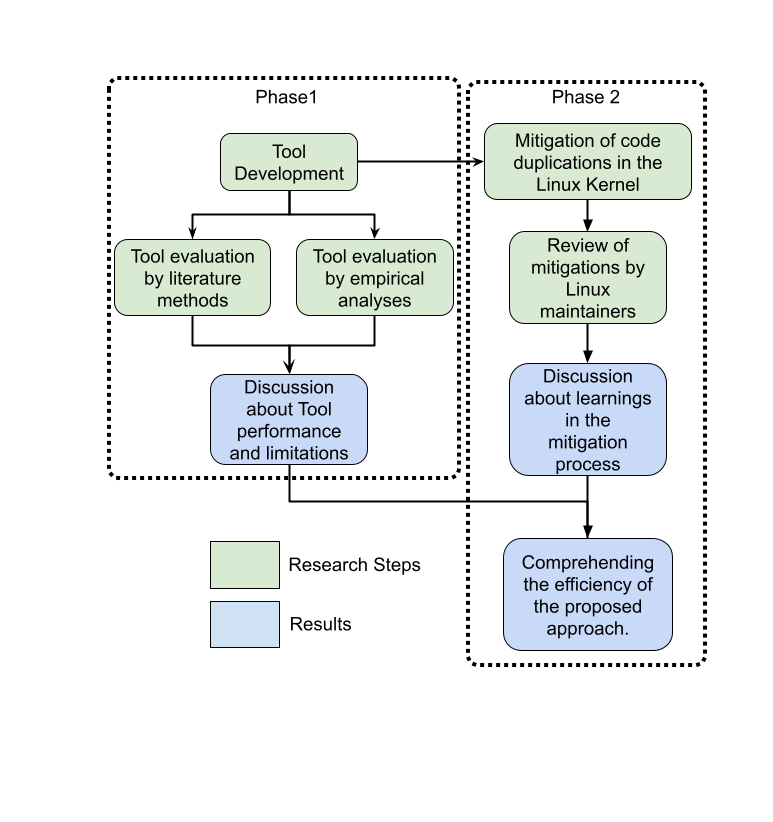
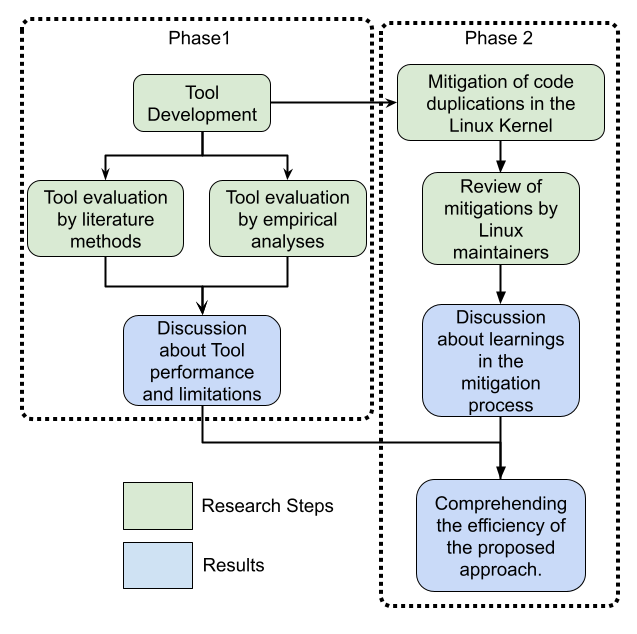
adjust research figure and intro tex

diff --git a/conteudo/introduction/intro.tex b/conteudo/introduction/intro.tex
@@ -83,7 +83,7 @@ in a set of randomly selected codes of the AMD Display driver which our proposed
 A detailed explication of how we will validate our tool is demonstrated in Chapter \ref{cha:method}.
 
 \begin{figure}
-\includegraphics[scale=0.8]{research_design}
+\includegraphics[scale=0.7]{research_design}
 \caption{Diagram of the research design.}
 \label{fig:reDesign}
 \end{figure}
@@ -93,13 +93,6 @@ context and, we can move on to how to mitigate these duplications, which compreh
 In \textbf{Phase 2}, we intend to discover ways to mitigate the code duplication detected in the Linux kernel. 
 To achieve our objective, we designed an ethnographic approach, which enables us to interact with the Linux community 
 to collect artifacts validating or refuting our mitigation.
-
-(POINTS TO CONSIDER: I do not like much this introduction, but is the best I could do)
-(I DO NOT HAVE MORE A PLACE TO FIT THIS PARAGRAPH) An additional usefulness of our proposed approach, which we do not verify
-in our research, is to give a new method to people become 
-contributors to the Linux kernel. The process of starting to contribute to the Linux kernel can be unintuitive, which can cause 
-people to distance themselves. Our approach provides to the community a new form of newcomers to start contributing by removing 
-simple code duplications, while they learn the whole process of being a Linux contributor.
 
 Figure \ref{fig:reDesign} sumamarizes the research steps proposed in this work.
 
